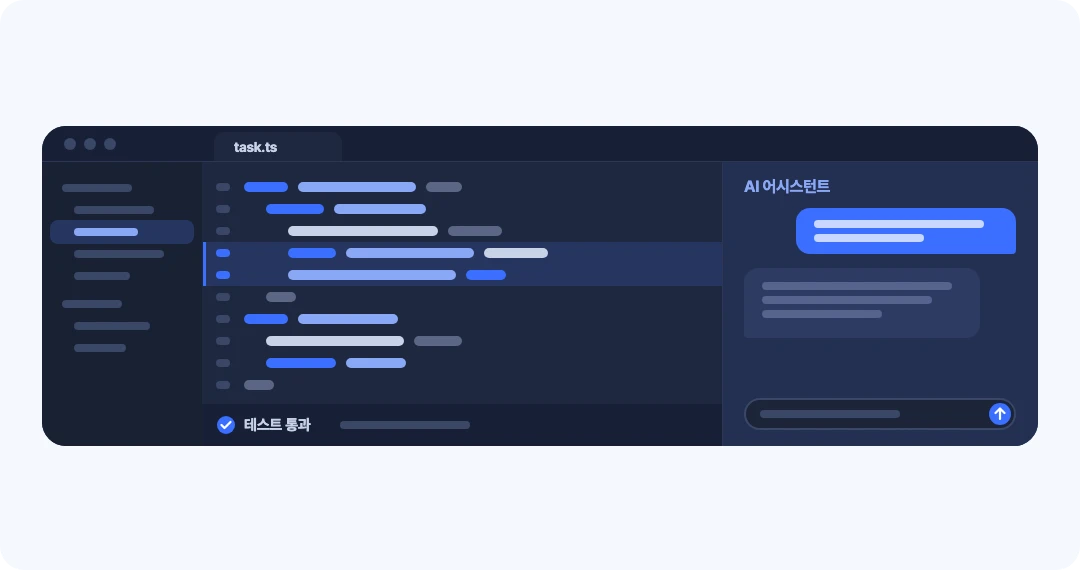
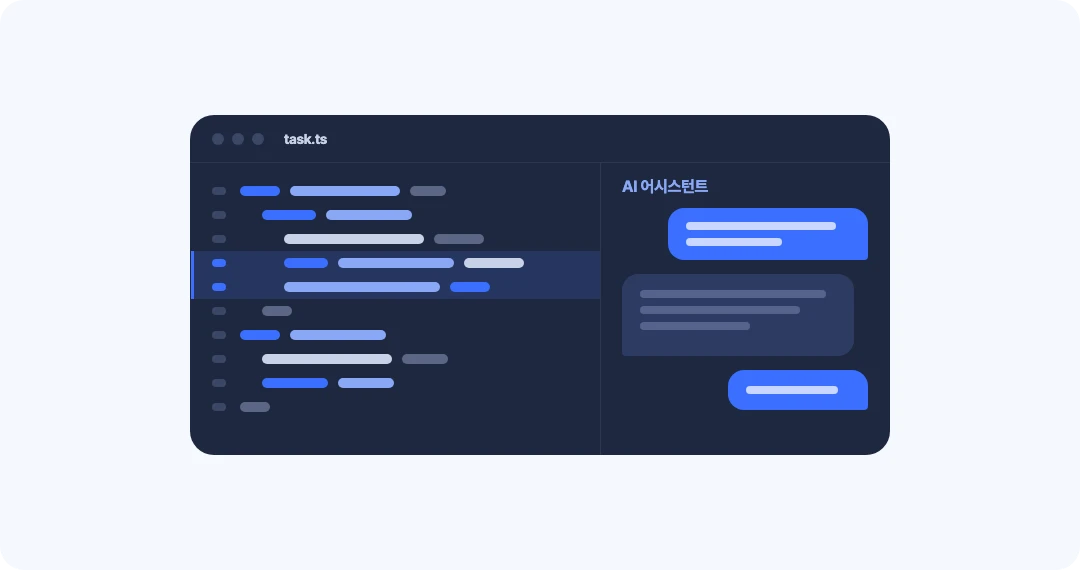
도식 ①②③ 2차: 질문·감지 내역을 더 잘 보이게, 과제 화면은 좁고 단순하게
- diagram-question.webp(①): 영상 카드를 줄이고 질문 카드를 키움. AI 질문·꼬리질문
  말풍선을 블루로 채워 영상보다 먼저 보이게.
- diagram-integrity.webp(②): 영상에서 사람을 빼고(재생 화면 + 타임라인 감지 지점),
  감지 내역 카드를 앞에 크게. 줄마다 경고 표시와 진한 글자.
- diagram-task.webp(③): 창 폭을 996에서 700으로. '테스트 통과'·파일 목록·입력창을
  빼고, 코드와 AI 어시스턴트 대화를 선 하나로만 나눔.
- ②③ alt 문구를 새 그림에 맞게 수정.

Changed region(s): [[0.0306, 0.1789, 0.9778, 0.8053]]

diff --git a/components/IntegritySection.tsx b/components/IntegritySection.tsx
@@ -35,7 +35,7 @@ export default function IntegritySection({ withLink = false }: { withLink?: bool
               )}
             </div>
             <div className="hr-media">
-              <img className="hr-img" src="/diagram-integrity.webp" alt="부정행위 감지 도식: 지원자 영상의 시선 이탈 감지 표시와 감지 내역 목록" width={1080} height={570} loading="lazy" />
+              <img className="hr-img" src="/diagram-integrity.webp" alt="부정행위 감지 도식: 영상 타임라인의 감지 지점과 감지 내역 목록" width={1080} height={570} loading="lazy" />
             </div>
           </div>
         </div>

diff --git a/app/page.tsx b/app/page.tsx
@@ -22,7 +22,7 @@ const PRODUCT_CARDS: Record<string, { img: string; alt: string; points: string[]
   },
   "/ai-assessment": {
     img: "/diagram-task.webp",
-    alt: "AI 역량검사 도식: 개발 화면의 과제 코드·테스트 통과와 AI 어시스턴트 대화",
+    alt: "AI 역량검사 도식: 개발 화면의 과제 코드와 AI 어시스턴트 대화",
     points: ["AI 개발 과제 · AI 업무 과제 · 코딩 테스트", "AI 활용 과정과 결과 검증까지 채점", "제출 뒤 AI 인터뷰로 이해도 확인"],
   },
 };
